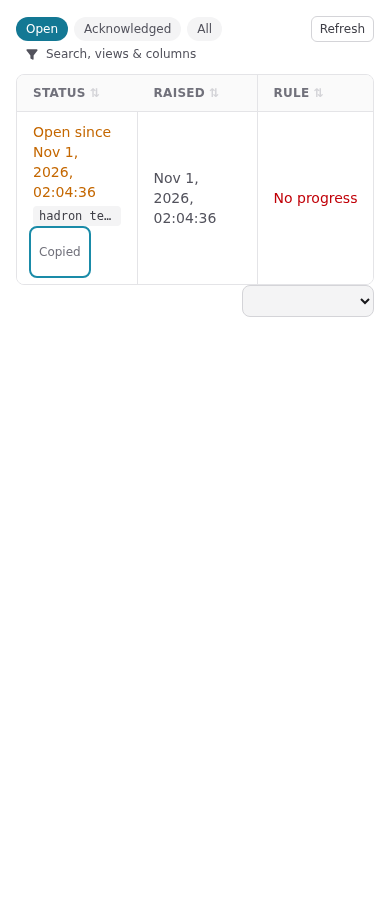
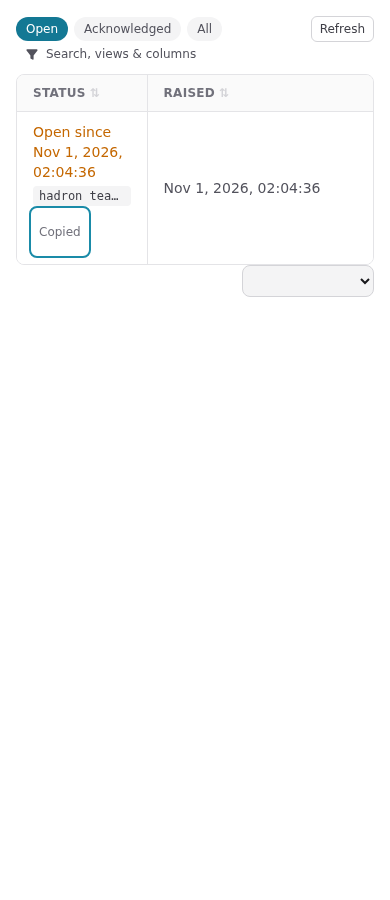
fix: preserve table action focus at enlarged text and verify confirmation cell
Use fixed 44px Open targets with a 140px floor and a 130px alarm status floor. Bind the confirmation oracle to its actual cell after reorder and prove overflow sensitivity with a negative control. Refresh exact-source synthetic evidence.

Worker: Juliet (portal-engineer) <hrn:worker:hadronmemory.com:hadron-dev-team:juliet>

diff --git a/src/lib/components/AppRunsTable.svelte b/src/lib/components/AppRunsTable.svelte
@@ -34,7 +34,7 @@
     { accessorKey: 'startedAt', header: t('runs.col.started', 'Started'), size: 200 },
     { id: 'duration', header: t('runs.col.duration', 'Duration'), enableSorting: false, size: 110 },
     { id: 'failure', header: t('runs.col.failure', 'Failure'), enableSorting: false, size: 220 },
-    { id: 'actions', header: t('runs.col.open', 'Open'), enableSorting: false, enableHiding: false, size: 120, minSize: 120 },
+    { id: 'actions', header: t('runs.col.open', 'Open'), enableSorting: false, enableHiding: false, size: 140, minSize: 140 },
   ];
   function query(change: Partial<RunsQuery>): RunsQuery { return { page: controls.page, statuses: controls.statuses, sort: controls.sort, dir: controls.dir, ...change }; }
   async function navigate(next: RunsQuery, replaceState = false) {
@@ -110,7 +110,7 @@
       {:else if c.column.id === 'entryNodeUrn'}<Urn value={run.entryNodeUrn} type="node" size={11} compact />
       {:else if c.column.id === 'duration'}{runDuration(run)}
       {:else if c.column.id === 'failure'}{failureCode(run) ?? ''}
-      {:else if c.column.id === 'actions'}<a href="/app/apps/{encodeURIComponent(appRef)}/runs/{run.id}" class="inline-flex min-h-11 min-w-11 shrink-0 items-center rounded text-indigo-700 underline focus-visible:outline-2 focus-visible:outline-indigo-500 dark:text-indigo-300">{t('runs.open', 'Open')}</a>
+      {:else if c.column.id === 'actions'}<a href="/app/apps/{encodeURIComponent(appRef)}/runs/{run.id}" class="inline-flex min-h-[44px] min-w-[44px] shrink-0 items-center rounded text-indigo-700 underline focus-visible:outline-2 focus-visible:outline-indigo-500 dark:text-indigo-300">{t('runs.open', 'Open')}</a>
       {:else}{fmtRunTime(run[c.column.id as 'createdAt' | 'startedAt' | 'finishedAt'])}{/if}
     {/snippet}
   </DataTable>

diff --git a/src/lib/components/agent-tasks/TasksAlarms.svelte b/src/lib/components/agent-tasks/TasksAlarms.svelte
@@ -101,7 +101,7 @@
     { id: 'raised', accessorFn: (r) => r.raisedMs, header: t('app.tasks.alarms.col.raised', 'Raised'), size: 200 },
     { id: 'rule', accessorFn: (r) => r.rule, header: t('app.tasks.alarms.col.rule', 'Rule'), enableHiding: false, size: 170 },
     { id: 'task', accessorFn: (r) => r.task, header: t('app.tasks.alarms.col.task', 'Task'), size: 260, minSize: 160 },
-    { id: 'status', accessorFn: (r) => r.status, header: t('app.tasks.alarms.col.status', 'Status'), enableHiding: false, size: 300, minSize: 120 },
+    { id: 'status', accessorFn: (r) => r.status, header: t('app.tasks.alarms.col.status', 'Status'), enableHiding: false, size: 300, minSize: 130 },
     { id: 'concerns', accessorFn: (r) => r.concerns, header: t('app.tasks.alarms.col.concerns', 'Concerns'), size: 200, minSize: 120 },
     { id: 'woke', accessorFn: (r) => r.woke, header: t('app.tasks.alarms.col.woke', 'Woke'), enableSorting: false, size: 240 },
     { id: 'chain', accessorFn: (r) => r.chain, header: t('app.tasks.alarms.col.chain', 'Chain'), enableSorting: false, size: 260 },

diff --git a/docs/evidence/1942/README.md b/docs/evidence/1942/README.md
@@ -7,3 +7,9 @@ Synthetic rows in the real Alarms, Runs and AI config components with compiled a
 Red-first: `059f8f3be`, original source bleed and the ARIA mismatch. `final-layout.log` reports 12 combinations ×8 sizing/text legs, net-off glyph/scroll/neighboring-pixel checks at120px plus restored40px text, negative controls and production-net checks. Removing net/wrap/ARIA guards gives the separate mutant failures. Files were restored byte-identical between mutants.
 
 The full suite passed850files/12,117tests with1skip, typecheck0/0, build passed. Existing Runs, AI menus and compactURN regressions passed. BulkApply initial attempt was interrupted by an author source-edit/Vite reload; unchanged retry passed all320/390/768/1280light/dark/cap legs. Independent gate seats provide their own evidence.
+
+## Review fix-cycle evidence
+
+The refreshed screenshots and final-layout.log use the corrected confirmation-cell oracle: the td must contain the Delete question after actions are reordered first. An overflowing nowrap control added to that same td must fail the oracle; removal restores a clean result. The old last-cell check was vacuous (Gabriel FULL BLIND P2); confirmation-cell-red.log records its identity failure at red-first commit 1b3d39606.
+
+Root-rem 200% target checks now supplement the earlier td-only font simulation. rem-red-runs.log and rem-red-alarms.log record the failing ring margins before the bounded fixes (red-first c0afbcad2). Open now uses a fixed 44px target and 140px floor; Alarms Copy uses a 130px floor. The current complete matrix passes at 390/1280, light/dark, including one-line Open and four-pixel ring space at real rem scaling. These remain isolated synthetic components; no OS/browser zoom, production or app-stack claim. Optional review hardening and default Runs width follow-through are in portal#1957.
